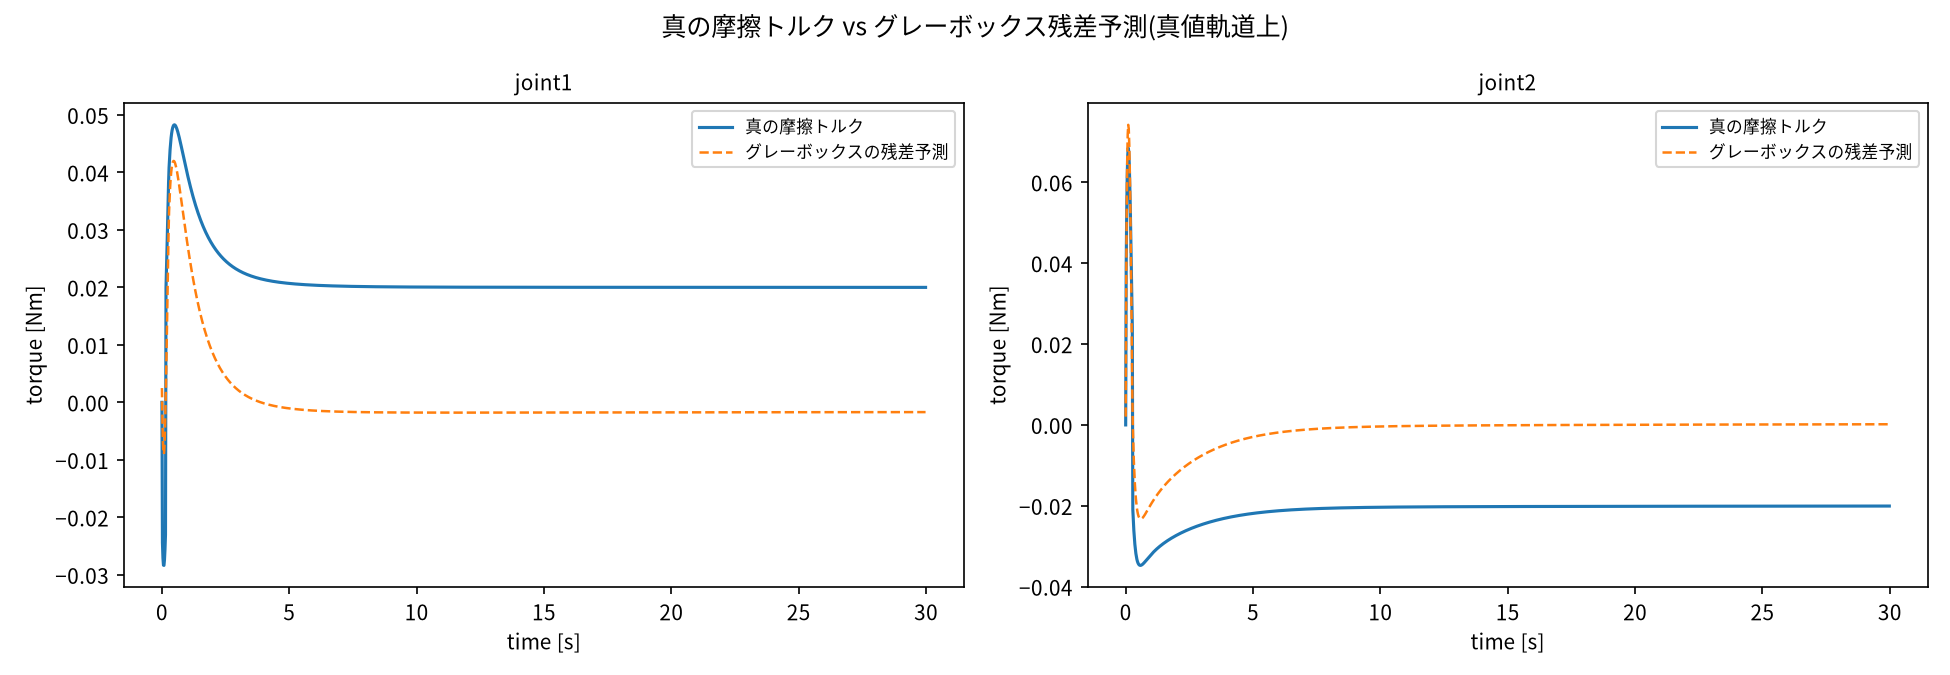
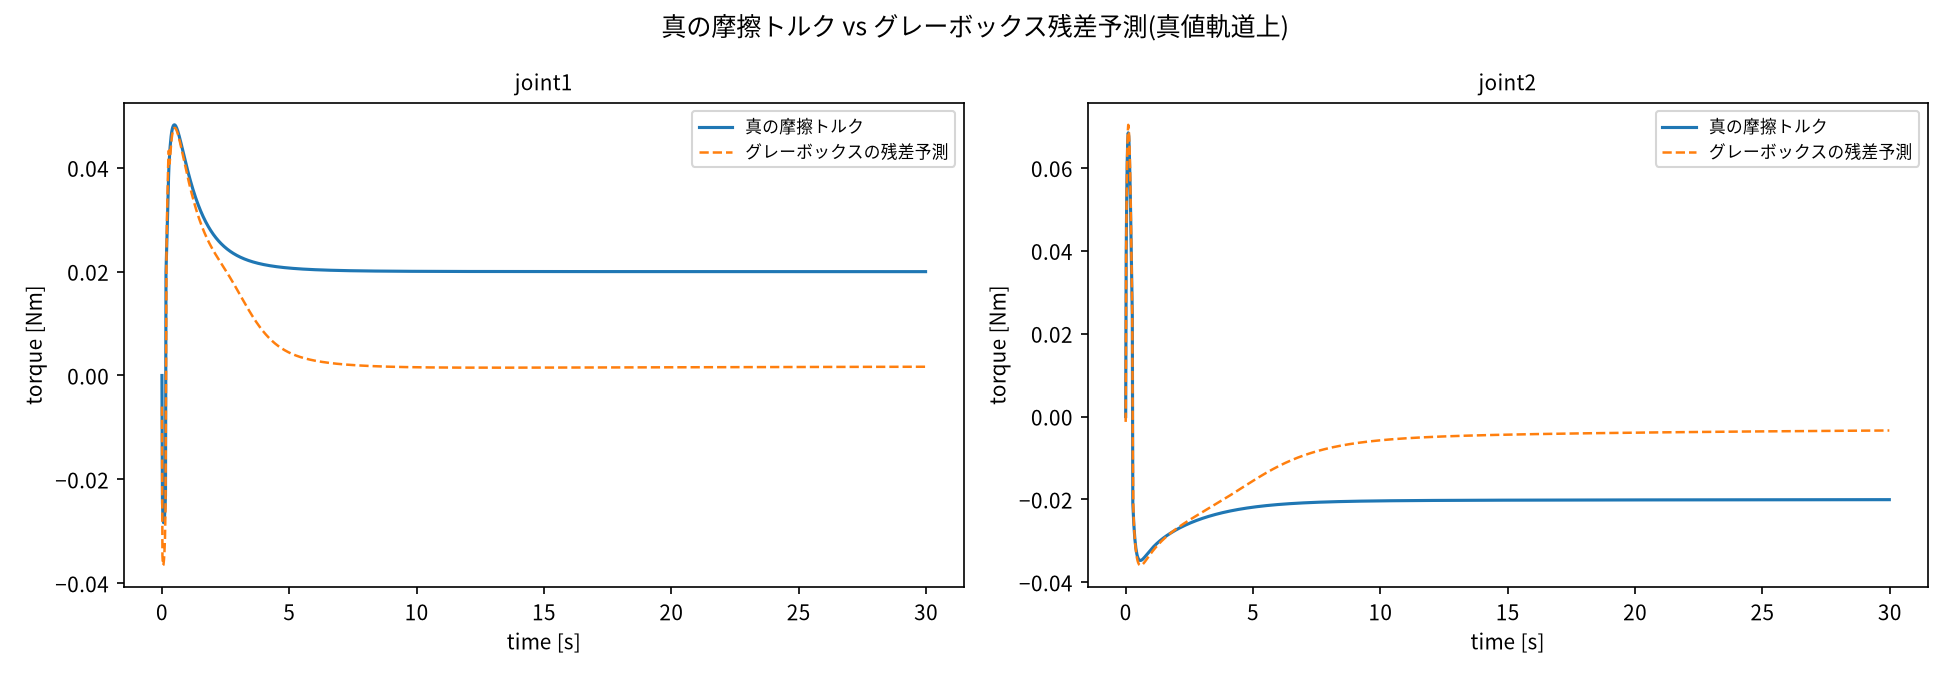
M6: 残差ネットにsign(q_dot)特徴量を追加してクーロン摩擦の過小評価を軽減
M5(#9)の診断で判明した「残差ネットが静止付近のsign(q_dot)不連続性を学習しきれず
クーロン摩擦を系統的に過小評価する」問題に対応。残差ネットの入力にtanh(q_dot/eps)
(sign(q_dot)の滑らかな近似)を明示的な特徴量として追加。

結果:
- 摩擦推定バイアス(オーバーシュート区間RMS): joint1 0.021→0.013, joint2 0.018→0.005
- 開ループロールアウトRMSE(副次効果): ゼロトルク 0.33→0.14, ランダムトルク列 0.48→0.14
- PTP制御: 引き続き12/12成功を維持

Claude-Session: https://claude.ai/code/session_01Rvrf6mcbh1UrexApn66z2b

diff --git a/src/model.py b/src/model.py
@@ -42,13 +42,26 @@ def decode_state(enc: torch.Tensor) -> torch.Tensor:
     return torch.stack([q1, q2, q1_dot, q2_dot], dim=-1)
 
 
-def _make_mlp(out_dim: int, hidden_dim: int, n_hidden_layers: int) -> nn.Sequential:
-    in_dim = STATE_ENC_DIM + CONTROL_DIM
+def _make_mlp(in_dim: int, out_dim: int, hidden_dim: int, n_hidden_layers: int) -> nn.Sequential:
     layers: list[nn.Module] = [nn.Linear(in_dim, hidden_dim), nn.Tanh()]
     for _ in range(n_hidden_layers - 1):
         layers += [nn.Linear(hidden_dim, hidden_dim), nn.Tanh()]
     layers.append(nn.Linear(hidden_dim, out_dim))
     return nn.Sequential(*layers)
+
+
+FRICTION_SIGN_EPS = 0.05  # sign(q_dot)の滑らかな近似 tanh(q_dot/eps) のスケール
+
+
+def friction_sign_features(state: torch.Tensor) -> torch.Tensor:
+    """(..., 4) state -> (..., 2) [tanh(q1_dot/eps), tanh(q2_dot/eps)]
+
+    M5 (#9) で、残差ネットが q_dot≈0 付近のクーロン摩擦 sign(q_dot) の不連続性を
+    学習しきれず系統的に過小評価することが判明したため、sign(q_dot)の滑らかな
+    近似を明示的な入力特徴量として与える。
+    """
+    q_dot = state[..., 2:]
+    return torch.tanh(q_dot / FRICTION_SIGN_EPS)
 
 
 def mass_matrix_torch(q2: torch.Tensor) -> torch.Tensor:
@@ -126,7 +139,7 @@ class NSSModel(AutoregressiveModel):
 
     def __init__(self, hidden_dim: int = 64, n_hidden_layers: int = 2):
         super().__init__()
-        self.net = _make_mlp(STATE_ENC_DIM, hidden_dim, n_hidden_layers)
+        self.net = _make_mlp(STATE_ENC_DIM + CONTROL_DIM, STATE_ENC_DIM, hidden_dim, n_hidden_layers)
 
     def forward(self, state: torch.Tensor, u: torch.Tensor | None = None) -> torch.Tensor:
         enc = encode_state(state)
@@ -148,11 +161,12 @@ class GrayBoxModel(AutoregressiveModel):
 
     def __init__(self, hidden_dim: int = 64, n_hidden_layers: int = 2, dt: float = DT):
         super().__init__()
-        self.net = _make_mlp(CONTROL_DIM, hidden_dim, n_hidden_layers)
+        # 入力: encode_state + u + sign(q_dot)の滑らかな近似(2次元, M6 #11)
+        self.net = _make_mlp(STATE_ENC_DIM + CONTROL_DIM + 2, CONTROL_DIM, hidden_dim, n_hidden_layers)
         self.dt = dt
 
     def residual_torque(self, state: torch.Tensor, u: torch.Tensor) -> torch.Tensor:
-        net_in = torch.cat([encode_state(state), u], dim=-1)
+        net_in = torch.cat([encode_state(state), u, friction_sign_features(state)], dim=-1)
         return self.net(net_in)
 
     def dynamics(self, state: torch.Tensor, u: torch.Tensor) -> torch.Tensor:

diff --git a/tests/test_model.py b/tests/test_model.py
@@ -1,7 +1,7 @@
 import numpy as np
 import torch
 
-from src.model import GrayBoxModel, NSSModel, coriolis_matrix_torch, mass_matrix_torch
+from src.model import GrayBoxModel, NSSModel, coriolis_matrix_torch, friction_sign_features, mass_matrix_torch
 from src.physics import coriolis_matrix, mass_matrix, rk4_step
 
 
@@ -62,3 +62,12 @@ def test_graybox_rollout_output_shape():
     model = GrayBoxModel()
     traj = model.rollout(np.array([0.1, 0.2, 0.0, 0.0]), n_steps=10)
     assert traj.shape == (11, 4)
+
+
+def test_friction_sign_features_approximates_sign():
+    """M6 (#11): tanh(q_dot/eps)は大きな|q_dot|でsign(q_dot)に、q_dot=0で0に近づくこと。"""
+    state = torch.tensor([[0.0, 0.0, 2.0, -2.0], [0.0, 0.0, 0.0, 0.0]])
+    features = friction_sign_features(state).numpy()
+
+    assert np.allclose(features[0], [1.0, -1.0], atol=1e-3)
+    assert np.allclose(features[1], [0.0, 0.0], atol=1e-9)

diff --git a/README.md b/README.md
@@ -74,6 +74,16 @@ pip install -r requirements.txt
   真の物理モデルの摩擦固着を解消。全12ICで真値・グレーボックスとも成功(12/12)
   となり、誤差の水準もほぼ同オーダー(0.01〜0.05)に揃った。ブラックボックスは
   依然として全12ICで破綻(0/12)。
+- **M5** (完了, #9): M4後のPTP代表試行で見られたグレーボックスのオーバーシュートの
+  原因を診断。真値軌道上で残差ネットの摩擦予測を直接比較したところ、
+  オーバーシュート区間限定の誤差悪化ではなく、角速度≈0付近で残差ネットが
+  `sign(q_dot)`の不連続性を学習しきれずクーロン摩擦(0.02)を系統的に過小評価する
+  定常バイアスが根本原因と判明。角速度は終始学習レンジ内のため分布外問題ではない。
+- **M6** (完了, #11): M5の診断を踏まえ、残差ネットの入力に`tanh(q_dot/eps)`
+  (sign(q_dot)の滑らかな近似)を明示的な特徴量として追加。静止付近の摩擦推定
+  バイアスが縮小し(オーバーシュート区間RMS: joint1 0.021→0.013、joint2
+  0.018→0.005)、副次効果として開ループロールアウトRMSEも大幅改善(ゼロトルク:
+  0.33→0.14、ランダムトルク列: 0.48→0.14)。PTP制御は引き続き12/12成功を維持。
 
 ## ディレクトリ構成
 
